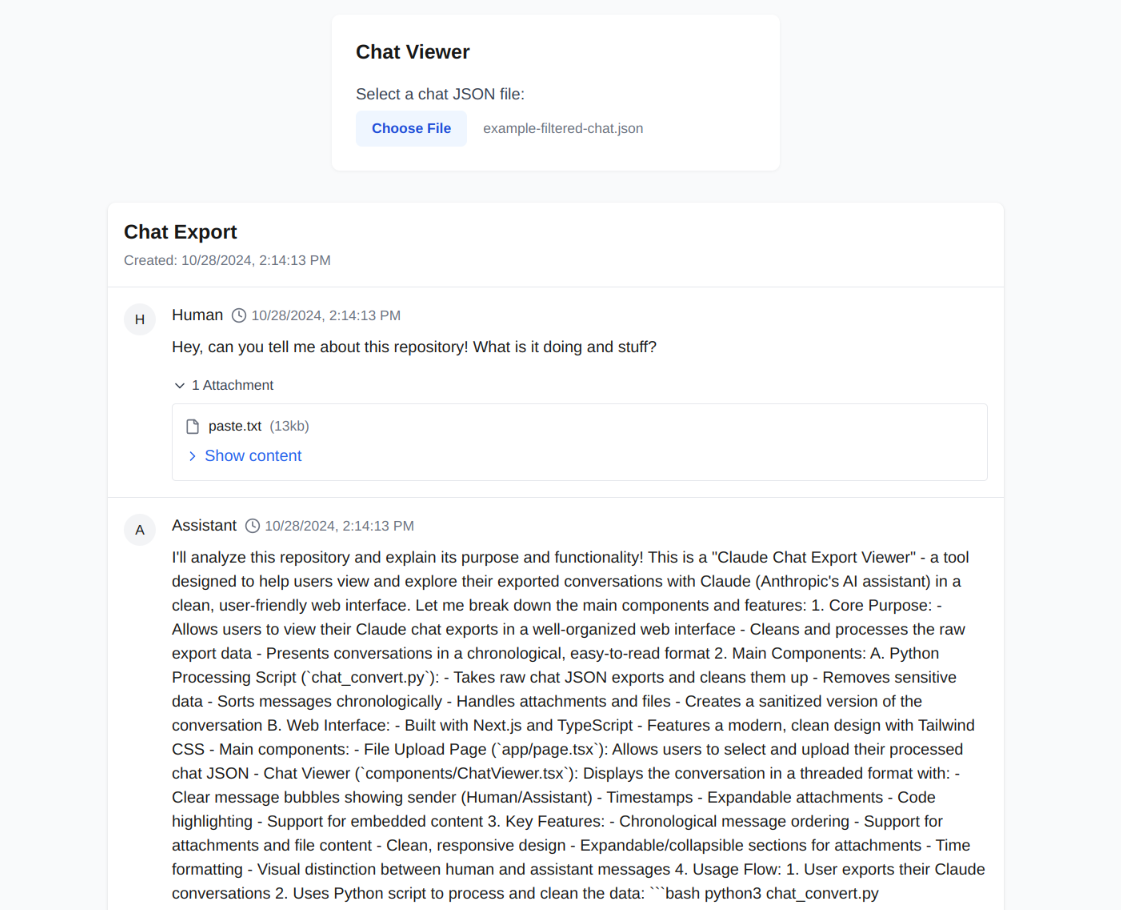
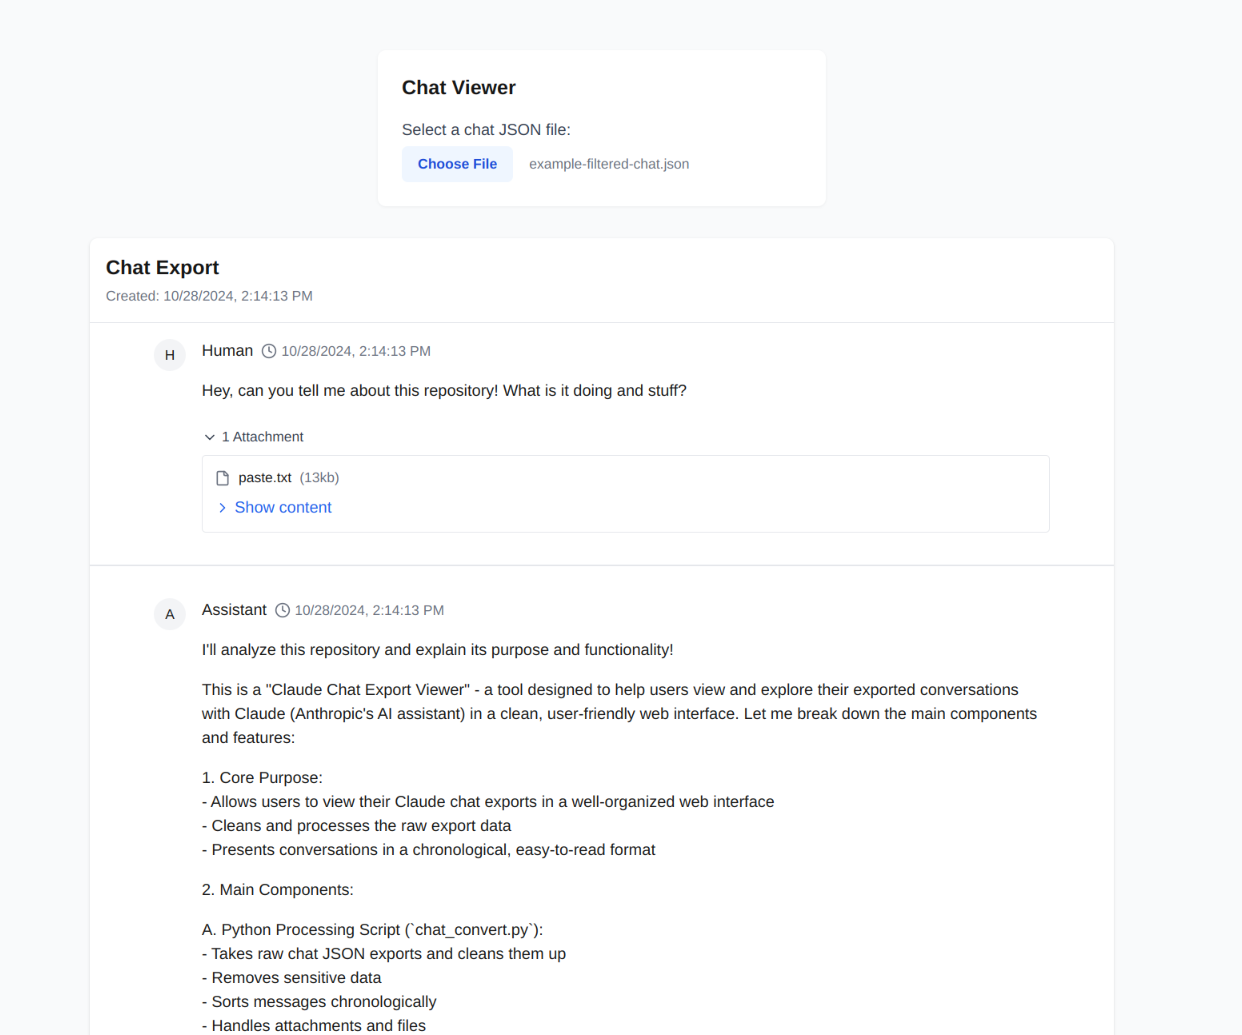
better formatting

diff --git a/components/ChatViewer.tsx b/components/ChatViewer.tsx
@@ -43,14 +43,29 @@ const ChatViewer = ({ initialData }: { initialData: ChatData }) => {
     return date.toLocaleString();
   };
 
+  // Function to preserve newlines while removing excess whitespace
+  const formatMessageText = (text: string) => {
+    // Replace single newlines with <br/> and preserve double newlines as paragraphs
+    return text.split('\n\n').map((paragraph, i) => (
+      <p key={i} className="mb-4 last:mb-0">
+        {paragraph.split('\n').map((line, j) => (
+          <React.Fragment key={j}>
+            {line}
+            {j !== paragraph.split('\n').length - 1 && <br />}
+          </React.Fragment>
+        ))}
+      </p>
+    ));
+  };
+
   const Message = ({ message }: { message: ChatData['chat_messages'][0] }) => {
     const [expanded, setExpanded] = React.useState(false);
     
     return (
-      <div className="p-4 border-b border-gray-200">
-        <div className="flex items-start gap-4">
+      <div className="py-8 px-4 border-b border-gray-200 first:pt-4 last:border-0">
+        <div className="flex items-start gap-4 max-w-4xl mx-auto">
           {/* Sender icon/avatar */}
-          <div className="w-8 h-8 rounded-full bg-gray-100 flex items-center justify-center">
+          <div className="w-8 h-8 rounded-full bg-gray-100 flex items-center justify-center shrink-0">
             <span className="text-sm font-medium">
               {message.sender === 'human' ? 'H' : 'A'}
             </span>
@@ -59,7 +74,7 @@ const ChatViewer = ({ initialData }: { initialData: ChatData }) => {
           {/* Message content */}
           <div className="flex-1 min-w-0">
             {/* Header */}
-            <div className="flex items-center gap-2 mb-2">
+            <div className="flex items-center gap-2 mb-4">
               <span className="font-medium">
                 {message.sender === 'human' ? 'Human' : 'Assistant'}
               </span>
@@ -70,13 +85,13 @@ const ChatViewer = ({ initialData }: { initialData: ChatData }) => {
             </div>
 
             {/* Text content */}
-            <div className="prose prose-sm max-w-none">
-              {message.text}
+            <div className="prose prose-sm max-w-none space-y-4">
+              {formatMessageText(message.text)}
             </div>
 
             {/* Attachments */}
             {message.attachments?.length > 0 && (
-              <div className="mt-4">
+              <div className="mt-6">
                 <div className="flex items-center gap-2 text-sm text-gray-700 mb-2">
                   <button 
                     onClick={() => setExpanded(!expanded)}
@@ -114,7 +129,7 @@ const ChatViewer = ({ initialData }: { initialData: ChatData }) => {
   };
 
   return (
-    <div className="max-w-4xl mx-auto bg-white rounded-lg shadow">
+    <div className="max-w-5xl mx-auto bg-white rounded-lg shadow">
       {/* Header */}
       <div className="p-4 border-b border-gray-200">
         <h1 className="text-xl font-semibold">{initialData.name}</h1>
@@ -124,7 +139,7 @@ const ChatViewer = ({ initialData }: { initialData: ChatData }) => {
       </div>
 
       {/* Messages */}
-      <div>
+      <div className="divide-y divide-gray-200">
         {initialData.chat_messages.map((message, i) => (
           <Message key={i} message={message} />
         ))}
